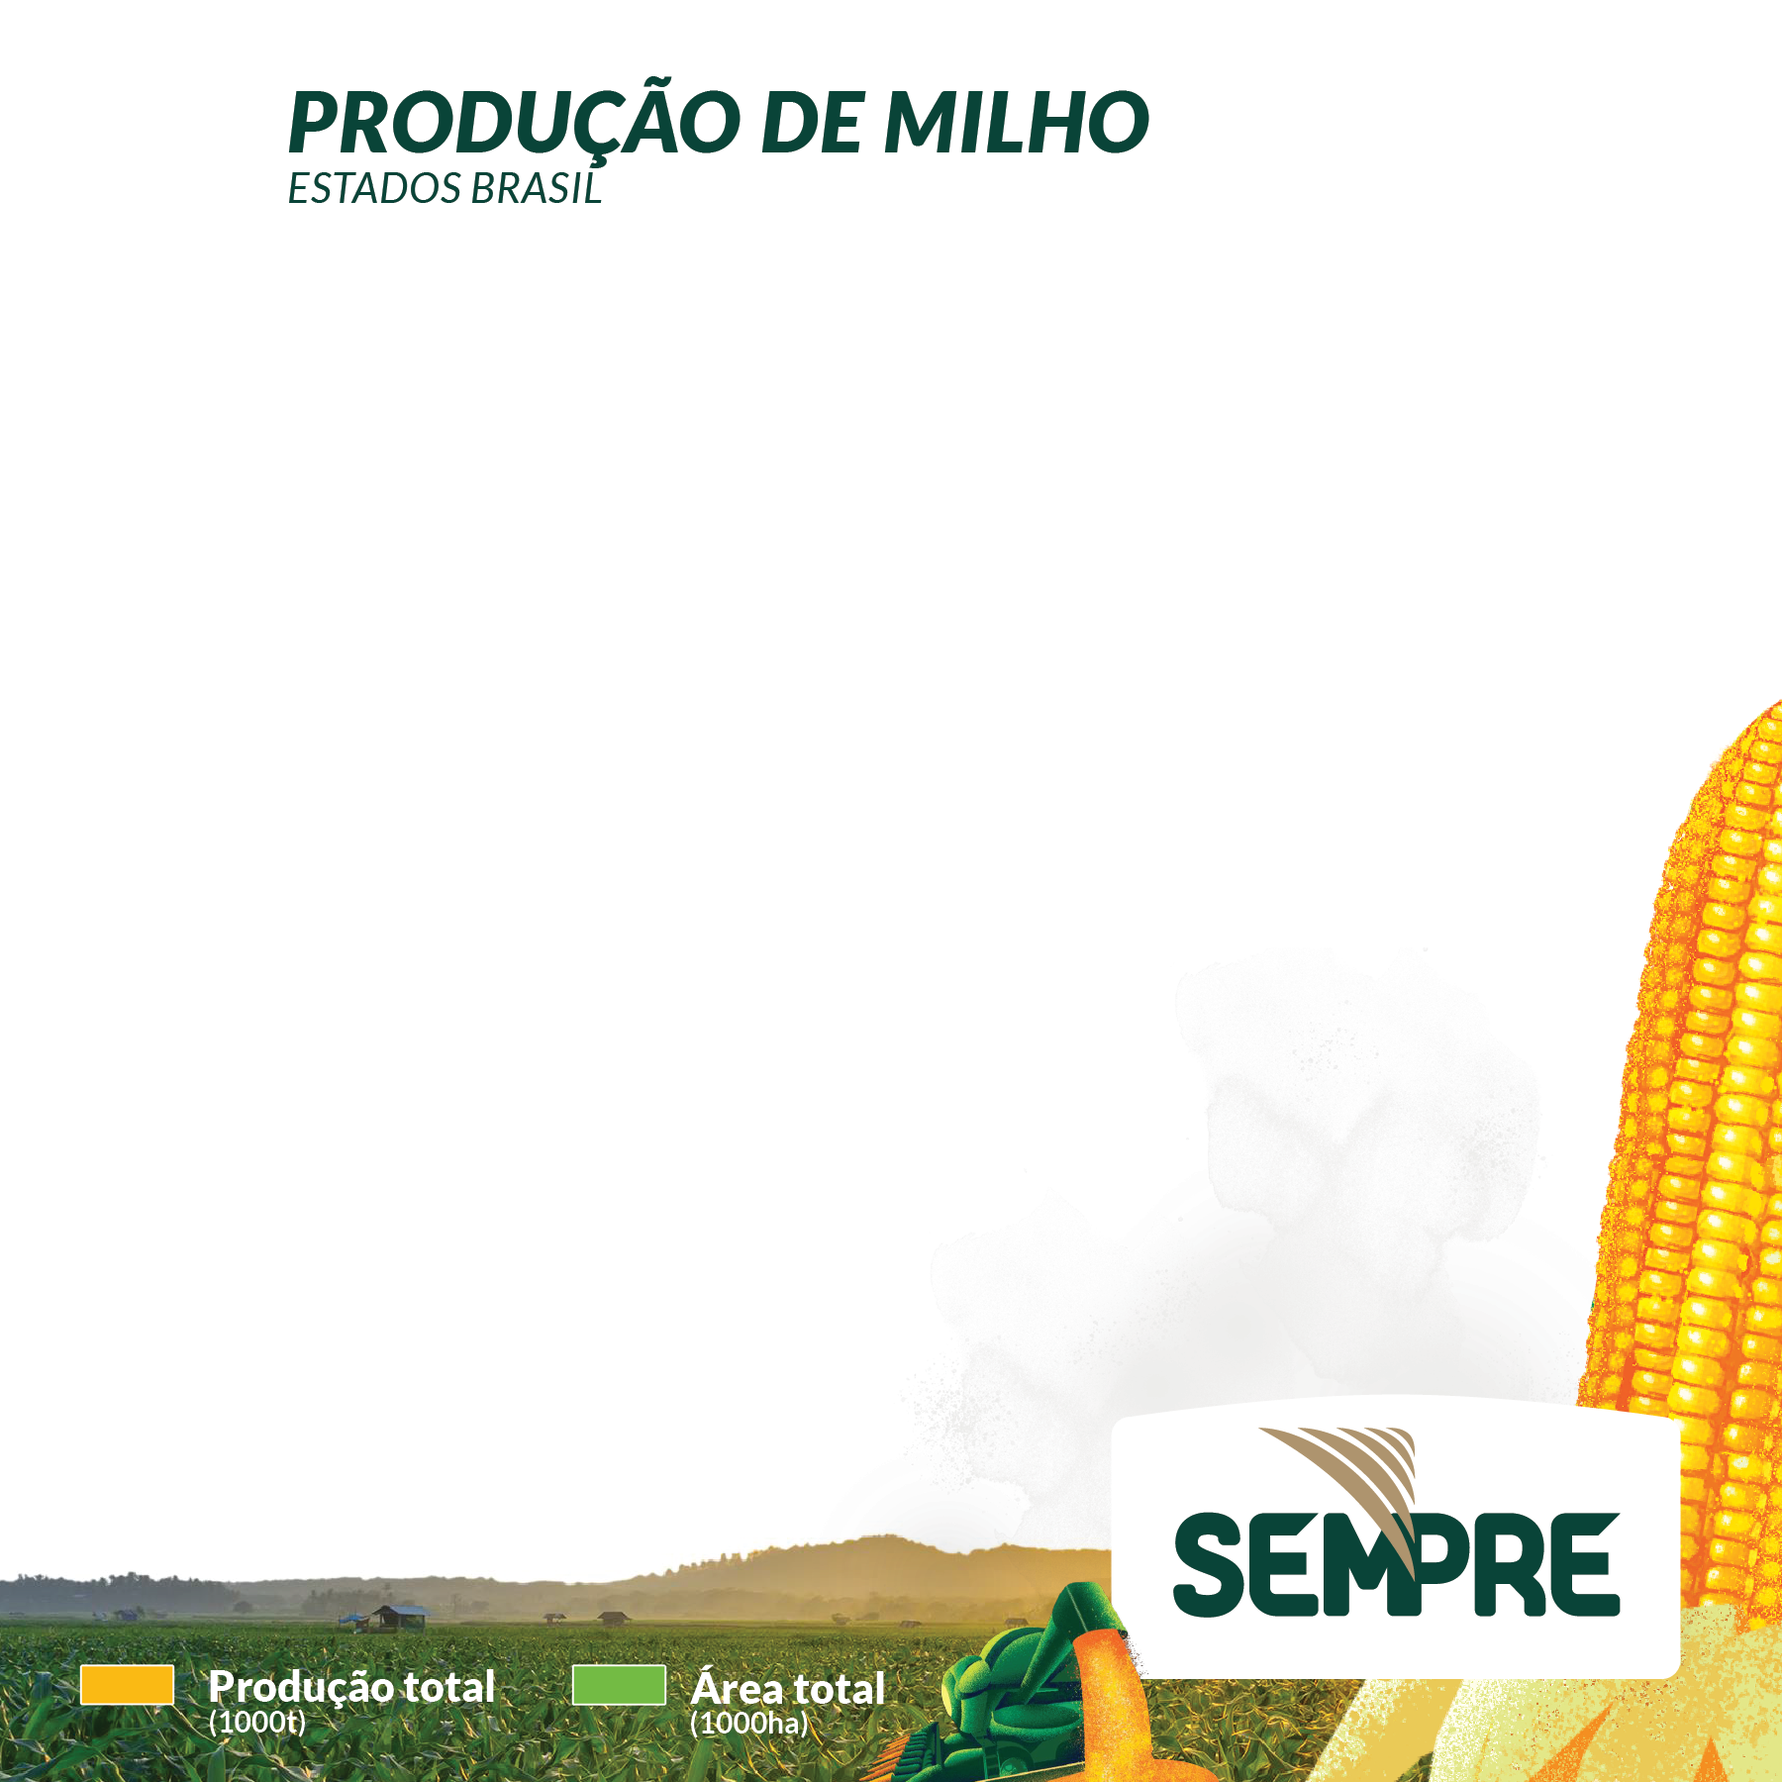
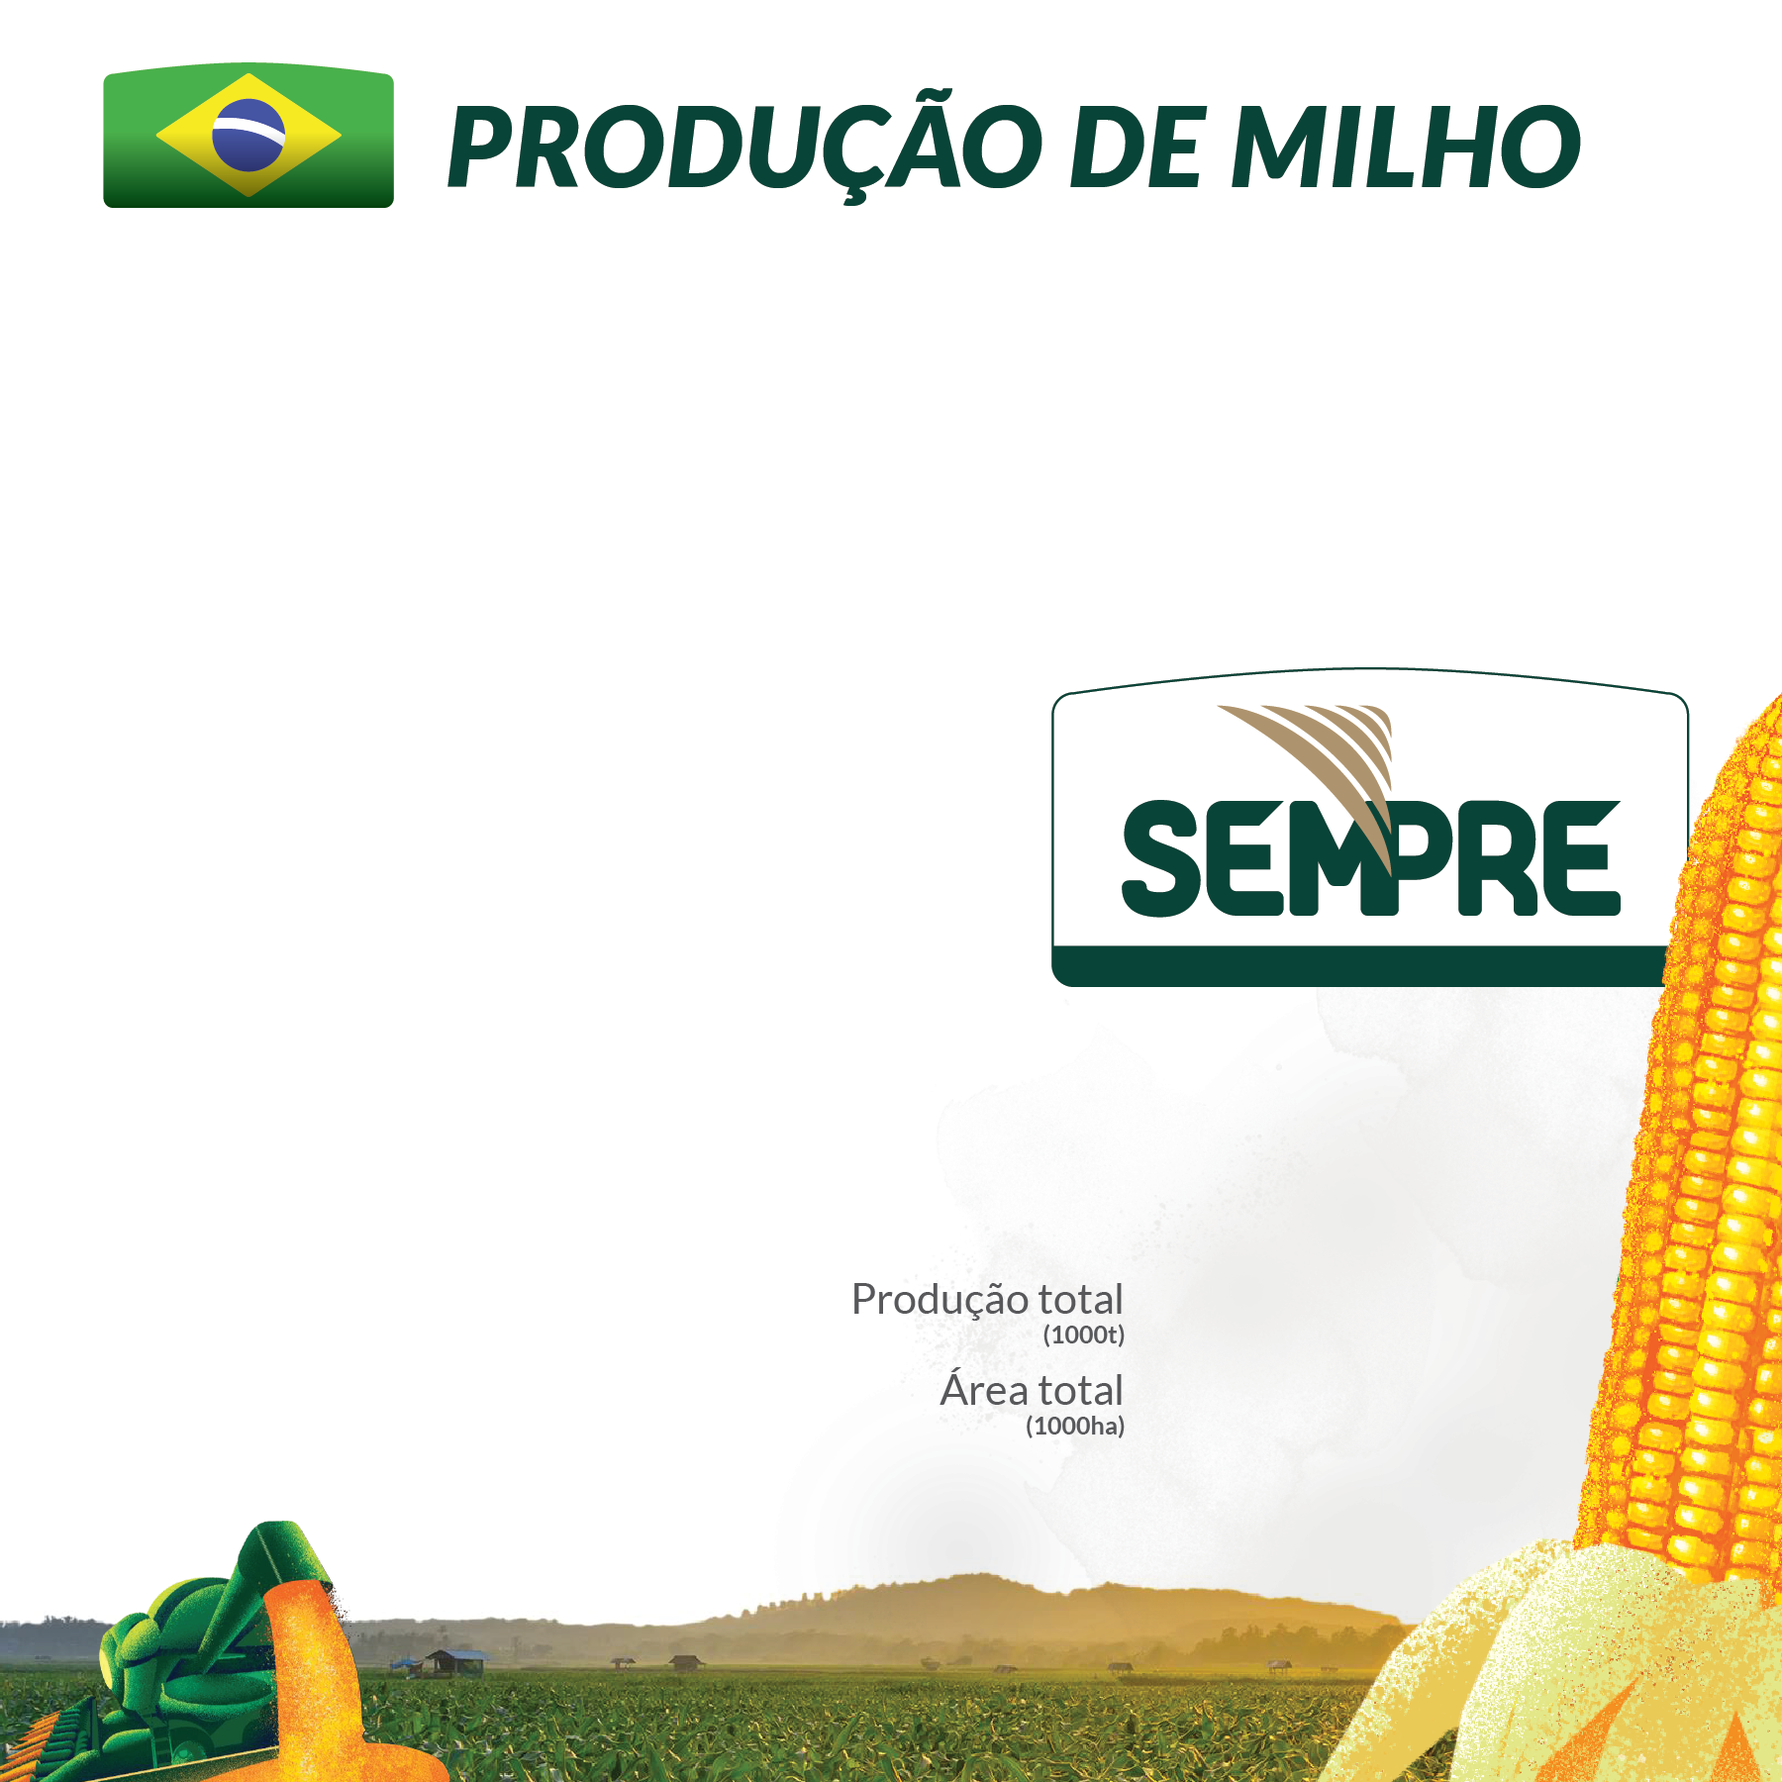
sei lá

Changed region(s): [[0.0, 0.3733, 1.0, 1.0], [0.0311, 0.0311, 0.9022, 0.1244], [0.4667, 0.7156, 0.6533, 0.8089]]

diff --git a/js/barchartrace.js b/js/barchartrace.js
@@ -1,6 +1,6 @@
 var minXAxis = 37000;
 
-function createBarChartRace(data, top_n, tickDuration) {
+async function createBarChartRace(data, top_n, tickDuration) {
     var data = data;
     let chartDiv = document.getElementById("chartDiv");
     chartDiv.textContent = '';
@@ -106,6 +106,10 @@ function createBarChartRace(data, top_n, tickDuration) {
     createValueLabelArea(svg, row_data, x, y, barPadding, inbetweenPadding, colors, top_n);
     createBandeira(svg, row_data, x, y, barPadding, inbetweenPadding, colors, top_n);
     createGraoMilho(svg, row_data, x, y, barPadding, inbetweenPadding, colors, top_n);
+    createBarProducaoTotal(svg, row_data, x, y, barPadding, inbetweenPadding, colors, top_n, data, time);
+    createValueLabelProducaoTotal(svg, row_data, x, y, barPadding, inbetweenPadding, colors, top_n, data, time);
+    createBarAreaTotal(svg, row_data, x, y, barPadding, inbetweenPadding, colors, top_n, data, time);
+    createValueLabelAreaTotal(svg, row_data, x, y, barPadding, inbetweenPadding, colors, top_n, data, time);
 
     const zeroPad = (num, places) => String(num).padStart(places, '0')
     let nextYear = parseInt(d3.timeFormat("%Y")(time)) + 1;
@@ -113,35 +117,16 @@ function createBarChartRace(data, top_n, tickDuration) {
 
     let timeText = svg.append('text')
         .attr('class', 'timeText')
-        .attr('x', width - 140)
-        .attr('y', height - 350)
-        .style('text-anchor', 'end')
+        .attr('x', 615)
+        .attr('y', 650)
         .html(d3.timeFormat("%Y/")(time) + lastDigits);
 
-    // TOTAL
-
-    let getTotal = () => {
-        let sum = 0;
-        
-        let index = time.getFullYear() - 1976;
-
-        for (let sigla in data[index]) {
-            if(sigla.includes('_1') || sigla.includes('_2') || sigla.includes('Date')) {
-                continue;
-            }
-
-            sum += data[index][sigla];
-        }
-
-        return sum;
-    }
-
-    let totalText = svg.append('text')
-        .attr('class', 'totalText')
-        .attr('x', width - 295)
-        .attr('y', height - 280)
-        .style('text-anchor', 'middle')
-        .html("TOTAL: " + getTotal());
+    // let totalText = svg.append('text')
+    //     .attr('class', 'totalText')
+    //     .attr('x', width - 295)
+    //     .attr('y', height - 280)
+    //     .style('text-anchor', 'middle')
+    //     .html("TOTAL: " + getTotal());
 
     // draw the updated graph with transitions
     function drawGraph() {
@@ -160,6 +145,10 @@ function createBarChartRace(data, top_n, tickDuration) {
         updateValueLabelArea(svg, row_data, x, y, barPadding, inbetweenPadding, colors, tickDuration, top_n);
         updateBandeira(svg, row_data, x, y, barPadding, inbetweenPadding, colors, tickDuration, top_n);
         updateGraoMilho(svg, row_data, x, y, barPadding, inbetweenPadding, colors, tickDuration, top_n);
+        updateBarProducaoTotal(svg, row_data, x, y, barPadding, inbetweenPadding, colors, tickDuration, top_n, data, time)
+        updateValueLabelProducaoTotal(svg, row_data, x, y, barPadding, inbetweenPadding, colors, tickDuration, top_n, data, time);
+        updateBarAreaTotal(svg, row_data, x, y, barPadding, inbetweenPadding, colors, tickDuration, top_n, data, time)
+        updateValueLabelAreaTotal(svg, row_data, x, y, barPadding, inbetweenPadding, colors, tickDuration, top_n, data, time);
 
         // update time label and progress bar
         d3.select('.progressBar')
@@ -176,8 +165,10 @@ function createBarChartRace(data, top_n, tickDuration) {
         let lastDigits = zeroPad(nextYear, 4);
 
         timeText.html(d3.timeFormat("%Y/")(time) + lastDigits);
-        totalText.html("TOTAL: " + d3.format('.0f')(getTotal()));
     }
+
+    const delay = async t => new Promise(resolve => setTimeout(resolve, t));
+    await delay(2000);
 
     // loop
     let i = 1;

diff --git a/js/updateElementTotais.js b/js/updateElementTotais.js
@@ -1,0 +1,59 @@
+let updateBarProducaoTotal = (svg, row_data, x, y, barPadding, inbetweenPadding, colors, tickDuration, top_n, data, time) => {
+    // update bars
+    let bars = svg.selectAll('.barProducaoTotal').data([getTotal(data, time)]);
+
+    bars.transition()
+        .duration(tickDuration)
+        .ease(d3.easeLinear)
+        .attr('width', d => getBarProducaoTotalWidth(d));
+}
+
+let updateValueLabelProducaoTotal = (svg, row_data, x, y, barPadding, inbetweenPadding, colors, tickDuration, top_n, data, time) => {
+    // update value labels
+
+    let valueLabels = svg.selectAll('.valueLabelProducaoTotal').data([getTotal(data, time)]);
+
+    valueLabels
+        .transition()
+        .duration(tickDuration)
+        .ease(d3.easeLinear)
+        .attr('x', d => getBarProducaoTotalX(d) + getBarProducaoTotalWidth(d) + 10)
+        .attr('y', d => getBarProducaoTotalY(d) + 23)
+        .tween("text", function (d) {
+            // let i = d3.interpolateNumber(d.lastTotal, d.total);
+            let i = d3.interpolateNumber(d.total, d.total);
+            return function (t) {
+                this.textContent = d3.format(',.0f')(i(t)).replace(",", ".");
+            };
+        });
+}
+
+let updateBarAreaTotal = (svg, row_data, x, y, barPadding, inbetweenPadding, colors, tickDuration, top_n, data, time) => {
+    // update bars
+    let bars = svg.selectAll('.barAreaTotal').data([getAreaTotal(data, time)]);
+
+    bars.transition()
+        .duration(tickDuration)
+        .ease(d3.easeLinear)
+        .attr('width', d => getBarProducaoTotalWidth(d));
+}
+
+let updateValueLabelAreaTotal = (svg, row_data, x, y, barPadding, inbetweenPadding, colors, tickDuration, top_n, data, time) => {
+    // update value labels
+
+    let valueLabels = svg.selectAll('.valueLabelAreaTotal').data([getAreaTotal(data, time)]);
+
+    valueLabels
+        .transition()
+        .duration(tickDuration)
+        .ease(d3.easeLinear)
+        .attr('x', d => getBarProducaoTotalX(d) + getBarProducaoTotalWidth(d) + 10)
+        .attr('y', d => getBarProducaoTotalY(d) + 72)
+        .tween("text", function (d) {
+            // let i = d3.interpolateNumber(d.lastTotal, d.total);
+            let i = d3.interpolateNumber(d.total, d.total);
+            return function (t) {
+                this.textContent = d3.format(',.0f')(i(t)).replace(",", ".");
+            };
+        });
+}

diff --git a/js/createElementTotais.js b/js/createElementTotais.js
@@ -1,0 +1,47 @@
+let createBarProducaoTotal = (svg, row_data, x, y, barPadding, inbetweenPadding, colors, top_n, data, time) => {
+    svg.selectAll('rect.barProducaoTotal')
+        .data([getTotal(data, time)])
+        .enter()
+        .append('rect')
+        .attr('class', 'barProducaoTotal')
+        .attr('x', d => getBarProducaoTotalX(d))
+        .attr('width', d => getBarProducaoTotalWidth(d))
+        .attr('y', d => getBarProducaoTotalY(d))
+        .attr('height', getBar1Height(x, y, barPadding, inbetweenPadding))
+        .style('fill', '#fdba35');
+}
+
+let createValueLabelProducaoTotal = (svg, row_data, x, y, barPadding, inbetweenPadding, colors, top_n, data, time) => {
+    svg.selectAll('text.valueLabelProducaoTotal')
+        .data([getTotal(data, time)])
+        .enter()
+        .append('text')
+        .attr('class', 'valueLabelProducaoTotal')
+        .attr('x', d => getBarProducaoTotalX(d) + getBarProducaoTotalWidth(d) + 10)
+        .attr('y', d => getBarProducaoTotalY(d) + 23)
+        .text(d => d3.format(',.0f')(d.total).replace(",", "."));
+}
+
+let createBarAreaTotal = (svg, row_data, x, y, barPadding, inbetweenPadding, colors, top_n, data, time) => {
+    svg.selectAll('rect.barAreaTotal')
+        .data([getAreaTotal(data, time)])
+        .enter()
+        .append('rect')
+        .attr('class', 'barAreaTotal')
+        .attr('x', d => getBarProducaoTotalX(d))
+        .attr('width', d => getBarProducaoTotalWidth(d))
+        .attr('y', d => getBarProducaoTotalY(d) + 59)
+        .attr('height', getBar2Height(x, y, barPadding, inbetweenPadding))
+        .style('fill', '#74b943');
+}
+
+let createValueLabelAreaTotal = (svg, row_data, x, y, barPadding, inbetweenPadding, colors, top_n, data, time) => {
+    svg.selectAll('text.valueLabelAreaTotal')
+        .data([getAreaTotal(data, time)])
+        .enter()
+        .append('text')
+        .attr('class', 'valueLabelAreaTotal')
+        .attr('x', d => getBarProducaoTotalX(d) + getBarProducaoTotalWidth(d) + 10)
+        .attr('y', d => getBarProducaoTotalY(d) + 72)
+        .text(d => d3.format(',.0f')(d.total).replace(",", "."));
+}

diff --git a/js/utils.js b/js/utils.js
@@ -33,3 +33,68 @@ let getValueLabelY = (d, x, y, barPadding, inbetweenPadding) => {
 let getValueLabelAreaY = (d, x, y, barPadding, inbetweenPadding) => {
     return (y(d.rank) + ((y(1) - y(0)) / 2) + 1) + (getBar1Height(x, y, barPadding, inbetweenPadding) / 2) - 3;
 }
+
+let getBarProducaoTotalX = (d) => {
+    return 615;
+}
+
+let getBarProducaoTotalY = (d) => {
+    return 678;
+}
+
+let getBarProducaoTotalWidth = (d) => {
+    return 140 * d.total / 105167;
+}
+
+// TOTAL
+
+let getTotalByYear = (data, year) => {
+    let sum = 0;
+    let index = year - 1976;
+
+    for (let sigla in data[index]) {
+        if(sigla.includes('_1') || sigla.includes('_2') || sigla.includes('Date')) {
+            continue;
+        }
+
+        sum += data[index][sigla];
+    }
+
+    return sum;
+}
+
+let getTotal = (data, time) => {
+    let total = getTotalByYear(data, time.getFullYear());
+    let lastTotal = time.getFullYear() > 1976 ? getTotalByYear(data, time.getFullYear()-1) : total;
+
+    return {
+        total: total,
+        lastTotal: lastTotal
+    };
+}
+
+let getAreaTotalByYear = (data, year) => {
+    let sum = 0;
+    let index = year - 1976;
+
+    for (let sigla in data[index]) {
+        if(!sigla.includes('_1')) {
+            continue;
+        }
+
+        sum += data[index][sigla];
+    }
+
+    return sum;
+}
+
+let getAreaTotal = (data, time) => {
+
+    let total = getAreaTotalByYear(data, time.getFullYear());
+    let lastTotal = time.getFullYear() > 1976 ? getAreaTotalByYear(data, time.getFullYear()-1) : total;
+
+    return {
+        total: total,
+        lastTotal: lastTotal
+    };
+}

diff --git a/index.html b/index.html
@@ -1,5 +1,5 @@
 <!DOCTYPE html>
-<html lang="fr">
+<html lang="pt-BR">
 <head>
   <title>
     FabDev | Bar chart race generator
@@ -129,7 +129,10 @@
           </div>
           <h5 class="card-title" id="graph-title">((title))</h5>
           <div id="chartDiv" style="width:950px; height: 950px"></div>
-          <div id="chartDivForeground" style="width:950px; height: 950px"></div>
+          <div id="chartDivForeground" style="width:950px; height: 950px">
+            <div class="fonteText">Fonte: Série histórica da Conab</div>
+          </div>
+
           <p style="position:absolute;top:50%;left:50%;font-size:1.125rem;transform: translate(-50%,-50%)" v-if="interval == null">Please upload data first</p>
         </div>
       </div>
@@ -234,6 +237,8 @@
 <script src="https://stackpath.bootstrapcdn.com/bootstrap/4.5.0/js/bootstrap.min.js" integrity="sha384-OgVRvuATP1z7JjHLkuOU7Xw704+h835Lr+6QL9UvYjZE3Ipu6Tp75j7Bh/kR0JKI" crossorigin="anonymous"></script>
 <script src="js/createElements.js"></script>
 <script src="js/updateElements.js"></script>
+<script src="js/createElementTotais.js"></script>
+<script src="js/updateElementTotais.js"></script>
 <script src="js/utils.js"></script>
 <script src="js/barchartrace.js"></script>
 <script>
@@ -244,7 +249,7 @@
             file: null,
             csv_data: null,
             interval: null,
-            duration: 100,
+            duration: 70,
             tickDuration: 500,
             top_n: 10,
             title: "My bar chart",

diff --git a/js/updateElements.js b/js/updateElements.js
@@ -117,9 +117,10 @@ let updateValueLabel = (svg, row_data, x, y, barPadding, inbetweenPadding, color
         .attr('x', d => x(d.value) + 23)
         .attr('y', d => getValueLabelY(d, x, y, barPadding, inbetweenPadding))
         .tween("text", function (d) {
-            let i = d3.interpolateNumber(d.lastValue, d.value);
+            // let i = d3.interpolateNumber(d.lastValue, d.value);
+            let i = d3.interpolateNumber(d.value, d.value);
             return function (t) {
-                this.textContent = d3.format('.0f')(i(t));
+                this.textContent = d3.format(',.0f')(i(t)).replace(",", ".");
             };
         });
 
@@ -157,9 +158,10 @@ let updateValueLabelArea = (svg, row_data, x, y, barPadding, inbetweenPadding, c
         .attr('x', d => x(d.value_1) + 9)
         .attr('y', d => getValueLabelAreaY(d, x, y, barPadding, inbetweenPadding))
         .tween("text", function (d) {
-            let i = d3.interpolateNumber(d.lastValue, d.value_1);
+            // let i = d3.interpolateNumber(d.lastValue, d.value_1);
+            let i = d3.interpolateNumber(d.value_1, d.value_1);
             return function (t) {
-                this.textContent = d3.format('.0f')(i(t));
+                this.textContent = d3.format(',.0f')(i(t)).replace(",", ".");
             };
         });
 

diff --git a/js/createElements.js b/js/createElements.js
@@ -45,7 +45,7 @@ let createValueLabel = (svg, row_data, x, y, barPadding, inbetweenPadding, color
         .attr('class', 'valueLabel')
         .attr('x', d => x(d.value) + 23)
         .attr('y', d => getValueLabelY(d, x, y, barPadding, inbetweenPadding))
-        .text(d => d3.format('.0f')(d.lastValue));
+        .text(d => d3.format(',.0f')(d.lastValue).replace(",", "."));
 }
 
 let createValueLabelArea = (svg, row_data, x, y, barPadding, inbetweenPadding, colors, top_n) => {
@@ -56,7 +56,7 @@ let createValueLabelArea = (svg, row_data, x, y, barPadding, inbetweenPadding, c
         .attr('class', 'valueLabelArea')
         .attr('x', d => x(d.value_1) + 9)
         .attr('y', d => getValueLabelAreaY(d, x, y, barPadding, inbetweenPadding))
-        .text(d => d3.format('.0f')(d.lastValue));
+        .text(d => d3.format(',.0f')(d.lastValue).replace(",", "."));
 }
 
 let createGraoMilho = (svg, row_data, x, y, barPadding, inbetweenPadding, colors, top_n) => {

diff --git a/css/style.css b/css/style.css
@@ -67,12 +67,41 @@ text.valueLabelArea {
     dominant-baseline: middle;
 }
 
+text.valueLabelProducaoTotal {
+    font-family: 'Lato', sans-serif;
+    font-weight: 500;
+    font-size: 16px;
+    font-style: italic;
+    fill: #004538;
+    dominant-baseline: middle;
+}
+
+text.valueLabelAreaTotal {
+    font-family: 'Lato', sans-serif;
+    font-weight: 500;
+    font-size: 16px;
+    font-style: italic;
+    fill: #004538;
+    dominant-baseline: middle;
+}
+
 text.timeText {
     font-family: 'Lato', sans-serif;
-    font-size: 45pt;
+    font-size: 24pt;
     font-weight: 900;
     font-style: italic;
     fill: #808285;
+}
+
+.fonteText {
+    font-family: 'Lato', sans-serif;
+    font-size: 16pt;
+    font-weight: 400;
+    color: #FFFFFF;
+    position: absolute;
+    bottom: 0px;
+    left: 260px;
+    text-shadow: 2px 2px black;
 }
 
 text.totalText {
